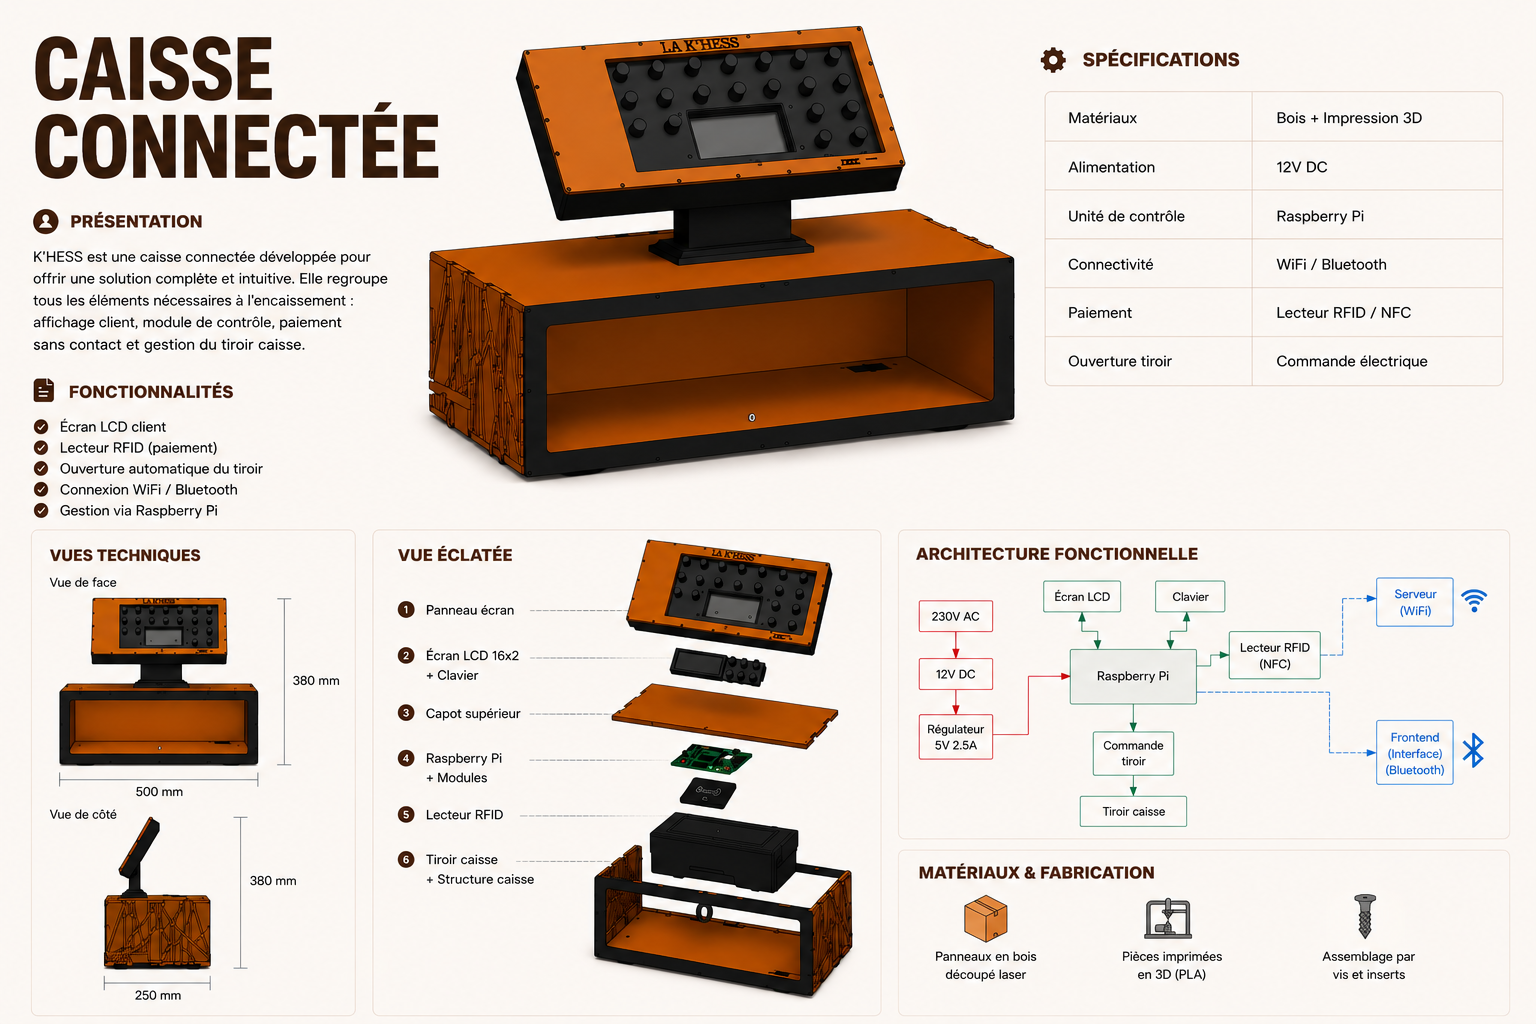
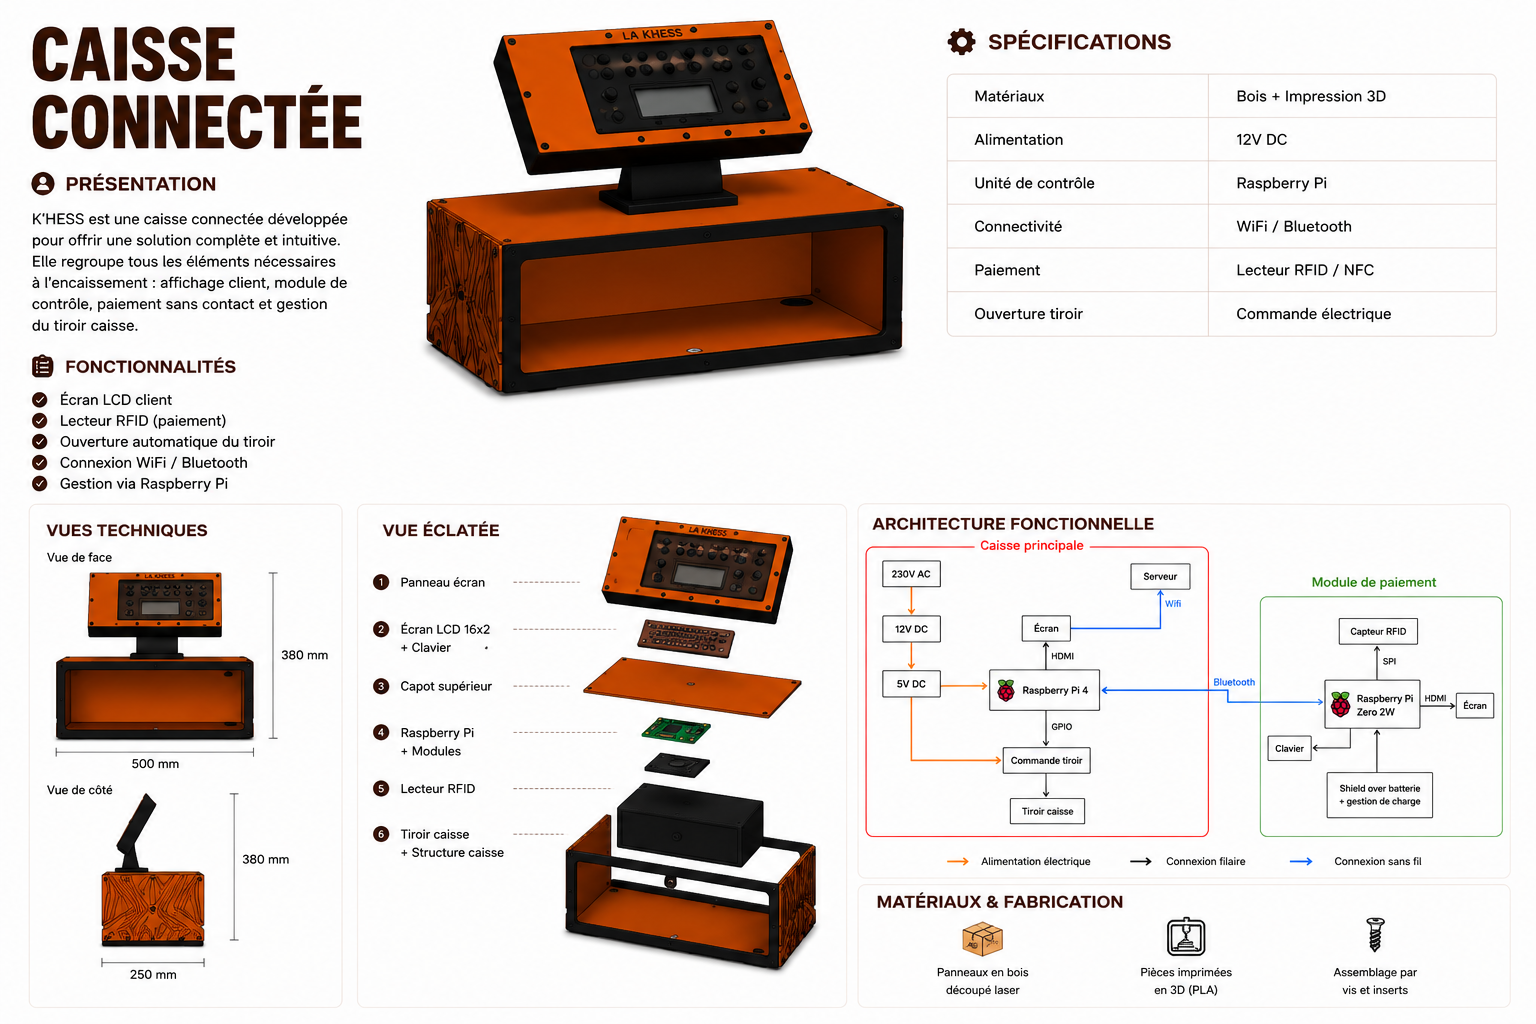
docs: readme

diff --git a/README.md b/README.md
@@ -4,40 +4,42 @@
 
 ![](k'hess.png)
 
-## Sommaire
-- [Cahier des charges](#cahier-des-charges)
-	- [Caisse enregistreuse portable avec écran tactile](#caisse-enregistreuse-portable-avec-écran-tactile)
-	- [Contraintes](#contraintes)
-- [Composants](#composants)
-- [Choix techniques et justification](#choix-techniques-et-justification)
-- [Modèle 3D de la caisse](#mod%C3%A8le-3d-de-la-caisse)
-- [Partie Logicielle (Software)](#-partie-logicielle-software)
-- [Technologies utilisées](#technologies-utilis%C3%A9es)
-- [Avancée du projet](#avanc%C3%A9e-du-projet)
-	- [Ce qui a été réalisé](#ce-qui-a-%C3%A9t%C3%A9-r%C3%A9alis%C3%A9)
-	- [Ce qui n'a pas (encore) été réalisé](#ce-qui-na-pas-encore-ete-r%C3%A9alis%C3%A9)
- 	- [Problèmes rencontrés et solutions trouvées](#probl%C3%A8mes-rencontr%C3%A9s-et-solutions-trouv%C3%A9es)
-	- [Améliorations possibles](#am%C3%A9liorations-possibles)
-- [Membres du projet](#membres-du-projet)
-- [Licence](#licence)
+## 📋 Sommaire
+- [📝 Cahier des charges](#cahier-des-charges)
+	- [📱 Caisse enregistreuse portable avec écran tactile](#caisse-enregistreuse-portable-avec-%C3%A9cran-tactile)
+	- [⚠ Contraintes](#contraintes)
+- [🔧 Hardware](#hardware)
+- [🖨 Modèle 3D de la caisse](#mod%C3%A8le-3d-de-la-caisse)
+- [💻 Partie Logicielle (Software)](#partie-logicielle-software)
+- [⚙ Technologies utilisées](#technologies-utilis%C3%A9es)
+- [✅ Avancée du projet](#avanc%C3%A9e-du-projet)
+	- [✅ Ce qui a été réalisé](#ce-qui-a-%C3%A9t%C3%A9-r%C3%A9alis%C3%A9)
+	- [❌ Ce qui n'a pas (encore) été réalisé](#ce-qui-na-pas-encore-ete-r%C3%A9alis%C3%A9)
+	- [🛠 Problèmes rencontrés et solutions trouvées](#probl%C3%A8mes-rencontr%C3%A9s-et-solutions-trouv%C3%A9es)
+	- [💡 Améliorations possibles](#am%C3%A9liorations-possibles)
+- [👥 Membres du projet](#membres-du-projet)
+- [📄 Licence](#licence)
 
-## Cahier des charges
-### Caisse enregistreuse portable avec écran tactile
+<a id="cahier-des-charges"></a>
+## 📝 Cahier des charges
+<a id="caisse-enregistreuse-portable-avec-écran-tactile"></a>
+### 📱 Caisse enregistreuse portable avec écran tactile
 * Interface utilisateur intuitive
 * Gestion des produits et des prix
 * Paiement avec carte étudiante
 
-### Contraintes
+<a id="contraintes"></a>
+### ⚠ Contraintes
 * Portabilité (batterie) : terminal de paiement
 * Fiabilité des transactions
 * Sécurité des données
 
-## Composants
+<a id="hardware"></a>
+## 🔧 Hardware
 Voir [Hardware/README.md](Hardware/README.md).
 
-## Choix techniques et justification
-
-## Modèle 3D de la caisse
+<a id="modèle-3d-de-la-caisse"></a>
+## 🖨 Modèle 3D de la caisse
 La caisse automatique est consituée de 3 éléments :
 - la caisse entière avec le socle
 - le module de paiement
@@ -49,24 +51,26 @@ La modélisation 3D de ces différentes pièces à été réaliser avec le logic
 * [Support tablette final](3D/Support%20tablette%20final.stl)
 
   
+<a id="partie-logicielle-software"></a>
 ## 💻 Partie Logicielle (Software)
 
 Cette section regroupe l'ensemble du code source de l'application web de la caisse connectée, développée avec le framework **Django** (Python).
 
-### 🚀 Accès au Code Source et Déploiement
+### 🔗 Accès au Code Source et Déploiement
 
-> ⚠ **Note sur le dépôt :** Suite à des difficultés techniques lors de la synchronisation et de l'envoi du code sur le dépôt partagé de l'équipe, la version la plus récente et totalement à jour de l'application a été temporairement hébergée sur mon espace personnel.
+> **Note sur le dépôt :** Suite à des difficultés techniques lors de la synchronisation et de l'envoi du code sur le dépôt partagé de l'équipe, la version la plus récente et totalement à jour de l'application a été temporairement hébergée sur mon espace personnel.
 
-* 📁 **Code source à jour :** Vous pouvez consulter et récupérer l'intégralité du projet en [cliquant directement sur ce lien vers mon dépôt personnel](https://github.com/zhang-estelle/DatabaseCashRegister).
-* 🛠 **Guide d'installation :** Pour faire fonctionner le code facilement sur votre machine, j'ai rédigé un guide pas-à-pas. Ce tutoriel recense également l'ensemble des blocages et des problèmes techniques que j'ai rencontrés durant le développement ainsi que leurs solutions. [Consulter le tutoriel de configuration Django](https://github.com/DBXYD/2526_Projet1AB_Khess/blob/master/TutoDjango.md).
+* **Code source à jour :** Vous pouvez consulter et récupérer l'intégralité du projet en [cliquant directement sur ce lien vers mon dépôt personnel](https://github.com/zhang-estelle/DatabaseCashRegister).
+* **Guide d'installation :** Pour faire fonctionner le code facilement sur votre machine, j'ai rédigé un guide pas-à-pas. Ce tutoriel recense également l'ensemble des blocages et des problèmes techniques que j'ai rencontrés durant le développement ainsi que leurs solutions. [Consulter le tutoriel de configuration Django](https://github.com/DBXYD/2526_Projet1AB_Khess/blob/master/TutoDjango.md).
 
-### 📊 Architecture de la Base de Données
+### 🗄 Architecture de la Base de Données
 
 Le système s'appuie sur une base de données relationnelle structurée pour gérer les profils des étudiants, leurs soldes (cotisants ou non), le catalogue de la K-FET et l'historique des ventes.
 
-* 🗺 **Modèle Conceptuel :** Pour comprendre l'organisation de nos tables, vous pouvez [accéder au schéma graphique dbdiagram](https://github.com/DBXYD/2526_Projet1AB_Khess/blob/master/dbdiagram.pdf).
+* **Modèle Conceptuel :** Pour comprendre l'organisation de nos tables, vous pouvez [accéder au schéma graphique dbdiagram](https://github.com/DBXYD/2526_Projet1AB_Khess/blob/master/dbdiagram.pdf).
 
-## Technologies utilisées
+<a id="technologies-utilisées"></a>
+## ⚙ Technologies utilisées
 
 - Python
 - Django
@@ -75,25 +79,29 @@ Le système s'appuie sur une base de données relationnelle structurée pour gé
 - Onshape
 - Impression 3D
   
-## Avancée du projet
-### Ce qui a été réalisé
+<a id="avancée-du-projet"></a>
+## ✅ Avancée du projet
+<a id="ce-qui-a-été-réalisé"></a>
+### ✅ Ce qui a été réalisé
 
-* prise en main du projet
-* création des PCB
-* soudure des PCB
-* développement du site internet/ interface vendeur avec gestion des stocks, des commandes
-* modification 3D de la caisse en changeant les dimensions du socle soutenant la tablette
-* modélisation 3D du module de paiement avec plusieurs variantes afin de correspondre à la taille du PCB contenu à l'intérieur
-* développement du code du module de payement
-* modification 3D de la caisse en changeant le support tablette se mettant sur le socle
+* Prise en main du projet
+* Création des PCB
+* Soudure des PCB
+* Développement du site internet/ interface vendeur avec gestion des stocks, des commandes
+* Modification 3D de la caisse en changeant les dimensions du socle soutenant la tablette
+* Modélisation 3D du module de paiement avec plusieurs variantes afin de correspondre à la taille du PCB contenu à l'intérieur
+* Développement du code du module de payement
+* Modification 3D de la caisse en changeant le support tablette se mettant sur le socle
+* Test du PCB
 
 
-### Ce qui n'a pas (encore) été réalisé
+<a id="ce-qui-na-pas-encore-ete-réalisé"></a>
+### ❌ Ce qui n'a pas (encore) été réalisé
 
-* test du PCB
-* assemblage de l'ensemble
+* Assemblage de l'ensemble
 
-### Problèmes rencontrés et solutions trouvées
+<a id="problèmes-rencontrés-et-solutions-trouvées"></a>
+### 🛠 Problèmes rencontrés et solutions trouvées
 
 Modélisation 3D:
 - La taille du support de tablette était trop petite ( impossibilité de passer les câbles HDMI et USB vers la caisse automatique ). 
@@ -101,16 +109,19 @@ On a du imprimer plusieurs fois le support pour trouver la taille adéquate.
 - Les trous pour fixer le support de tablette à son support n'étaient pas au bonne endroit après l'impression, on a du percer avec une perceuse les trous pour fixer le support correctement. 
 - Problèmes usuels d'impression 3D.
 
-### Améliorations possibles
+<a id="améliorations-possibles"></a>
+### 💡 Améliorations possibles
 
-* revoir le design de la caisse
-* améliorer le site internet
+* Revoir le design de la caisse
+* Améliorer le site internet
 
-## Membres du projet
+<a id="membres-du-projet"></a>
+## 👥 Membres du projet
 
 | <img src="https://images.weserv.nl/?url=github.com/Ahhj93.png&mask=circle" width="100"> | <img src="https://images.weserv.nl/?url=github.com/NKRIMAT.png&mask=circle" width="100"> | <img src="https://images.weserv.nl/?url=github.com/Margaux-Lapl.png&mask=circle" width="100"> | <img src="https://images.weserv.nl/?url=github.com/StrangeKobe.png&mask=circle" width="100"> | <img src="https://images.weserv.nl/?url=github.com/zhang-estelle.png&mask=circle" width="100"> | <img src="https://images.weserv.nl/?url=github.com/ClementJ493.png&mask=circle" width="100"> | <img src="https://images.weserv.nl/?url=github.com/rim-05-mma.png&mask=circle" width="100"> |
 | :---: | :---: | :---: | :---: | :---: | :---: | :---: |
 | [@Ahhj93](https://github.com/Ahhj93)<br>Bryan-Sowanna Ing | [@NKRIMAT](https://github.com/NKRIMAT)<br>Naïm Krimat | [@Margaux-Lapl](https://github.com/Margaux-Lapl)<br>Margaux Laplante | [@StrangeKobe](https://github.com/StrangeKobe)<br>Rayan Laghouane | [@zhang-estelle](https://github.com/zhang-estelle)<br>Estelle Zhang | [@ClementJ493](https://github.com/ClementJ493)<br>Clément Jouneau | [@rim-05-mma](https://github.com/rim-05-mma)<br>Rim Bouchikhi |
-## Licence
 
+<a id="licence"></a>
+## 📄 Licence
 Projet académique ENSEA — usage pédagogique.
